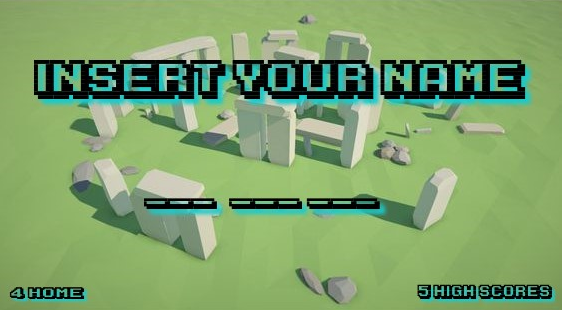
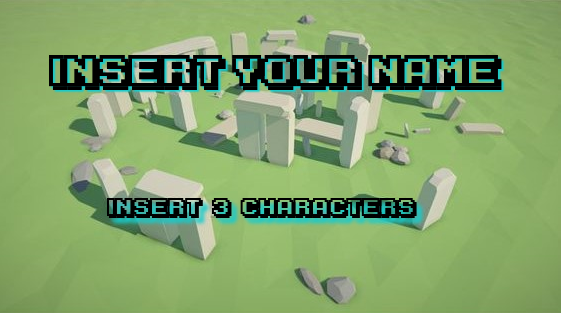
version final en estos momentos

diff --git a/src/gameRender.js b/src/gameRender.js
@@ -157,12 +157,28 @@ function renderPlayerName()
     );  
 
     updateLetterTime();
-    globals.ctx.font         = '10px emulogic';
-    globals.ctx.fillStyle    = 'red';  
-    globals.ctx.fillText("PRESS 3 KEYS TO SAVE NAME IN HIGHSCORES", 35, 250);
-    globals.ctx.font         = '10px emulogic';
-    globals.ctx.fillStyle    = 'red';  
-    globals.ctx.fillText(globals.highscorename, 70, 270);
+    const agua = globals.agua;
+    const frutas = globals.frutas;
+    const score = globals.score;
+    globals.ctx.font         = '50px emulogic';
+    globals.ctx.fillStyle    = 'blue';  
+    globals.ctx.fillText(globals.highscorename, 180, 170);
+
+    globals.ctx.font = '18px emulogic';
+    globals.ctx.fillText("WATER", 375, 260);
+    globals.ctx.fillStyle =  'black';
+    globals.ctx.fillText(agua, 385, 290);
+
+    globals.ctx.fillStyle =  'green';
+    globals.ctx.fillText("FRUIT", 215, 260);
+    globals.ctx.fillStyle =  'black';
+    globals.ctx.fillText(frutas, 230, 290);
+
+    globals.ctx.font = '18px emulogic';
+    globals.ctx.fillStyle = 'red';
+    globals.ctx.fillText("SCORE", 50, 260);
+    globals.ctx.fillStyle =  'black';
+    globals.ctx.fillText(score, 70, 290);
 }
 
 function renderHUD()
@@ -236,33 +252,13 @@ function drawGame()
 
     drawStats();
     
-    if (globals.score > 1000)
+    if (globals.score > 1500)
     {
         drawLevel2();
-        const agua = globals.agua;
-        globals.ctx.font         = '40px emulogic';
-        globals.ctx.fillStyle    = 'brown';
-        globals.ctx.fillText("LEVEL 2", 95, 50);
-        globals.ctx.font         = '15px emulogic';
-        globals.ctx.fillStyle    = 'brown';
-        globals.ctx.fillText("TIME:" + globals.levelTime.value, 410, 25);
-        globals.ctx.drawImage(globals.tileSets[12], 8, 0);
-        globals.ctx.fillStyle =  'lightbrown';
-        globals.ctx.fillText(":" + agua, 30, 33);
     }
-    if(globals.score > 3000)
+    if(globals.score > 4000)
     {
         drawLevel3();
-        const agua = globals.agua;
-        globals.ctx.font         = '40px emulogic';
-        globals.ctx.fillStyle    = 'pink';
-        globals.ctx.fillText("LEVEL 3", 95, 50);
-        globals.ctx.font         = '15px emulogic';
-        globals.ctx.fillStyle    = 'pink';
-        globals.ctx.fillText("TIME:" + globals.levelTime.value, 410, 25);
-        globals.ctx.drawImage(globals.tileSets[12], 8, 0);
-        globals.ctx.fillStyle =  'lightpink';
-        globals.ctx.fillText(":" + agua, 30, 33);
     }
     
 }
@@ -283,10 +279,9 @@ function drawStats()
 
 function drawLevel2()
 {
-  //Borramos la pntalla entera
-  globals.ctx.clearRect(0, 0, globals.canvas.width, globals.canvas.height);
-  globals.ctxHUD.clearRect(0, 0, globals.canvasHUD.width, globals.canvasHUD.height);
-  
+    //Borramos la pntalla entera
+    globals.ctx.clearRect(0, 0, globals.canvas.width, globals.canvas.height);
+    globals.ctxHUD.clearRect(0, 0, globals.canvasHUD.width, globals.canvasHUD.height);
 
     //Movemos la camara
     moveCamera();
@@ -307,6 +302,17 @@ function drawLevel2()
     renderHUD();
 
     renderParticles();
+
+    const agua = globals.agua;
+    globals.ctx.font         = '40px emulogic';
+    globals.ctx.fillStyle    = 'brown';
+    globals.ctx.fillText("LEVEL 2", 95, 50);
+    globals.ctx.font         = '15px emulogic';
+    globals.ctx.fillStyle    = 'brown';
+    globals.ctx.fillText("TIME:" + globals.levelTime.value, 410, 25);
+    globals.ctx.drawImage(globals.tileSets[12], 8, 0);
+    globals.ctx.fillStyle =  'lightbrown';
+    globals.ctx.fillText(":" + agua, 30, 33);
 }
 
 function drawLevel3()
@@ -335,6 +341,17 @@ function drawLevel3()
     renderHUD();
 
     renderParticles();
+
+    const agua = globals.agua;
+    globals.ctx.font         = '40px emulogic';
+    globals.ctx.fillStyle    = 'pink';
+    globals.ctx.fillText("LEVEL 3", 95, 50);
+    globals.ctx.font         = '15px emulogic';
+    globals.ctx.fillStyle    = 'pink';
+    globals.ctx.fillText("TIME:" + globals.levelTime.value, 410, 25);
+    globals.ctx.drawImage(globals.tileSets[12], 8, 0);
+    globals.ctx.fillStyle =  'lightpink';
+    globals.ctx.fillText(":" + agua, 30, 33);
 }
 
 function renderSprite(sprite)
@@ -517,7 +534,7 @@ function renderExplosionParticle(particle)
         globals.ctx.fillStyle = 'red';
         globals.ctx.globalAlpha = particle.alpha; //Set alpha
         globals.ctx.beginPath();
-        globals.ctx.arc(particle.xPos, particle.yPos, particle.radius, 0,5 * Math.PI );
+        globals.ctx.arc(particle.xPos, particle.yPos, particle.radius, 0.5 * Math.PI );
         globals.ctx.fill();
         globals.ctx.globalAlpha = 1.0;  //Restore alpha
     }
@@ -551,10 +568,18 @@ function renderScores()
 
 function renderScoreTable(score)
  {
-    moveCameraScore();
-    globals.ctx.font = '30px emulogic';
-    globals.ctx.fillStyle = 'white';
-    globals.ctx.fillText(score.name, score.xPos + 70, score.yPos + 100);
-    globals.ctx.fillText(score.score, score.xPos + 220, score.yPos + 100); 
-    restoreCamera();
+    
+    for( let i = 0; i < globals.scores.length; ++i)
+    {
+        moveCameraScore();
+        globals.ctx.font = '30px emulogic';
+        globals.ctx.fillStyle = 'white';
+        globals.ctx.fillText((i + 1),score.xPos + 30, score.yPos + 100); 
+        globals.ctx.font = '30px emulogic';
+        globals.ctx.fillStyle = 'white';
+        globals.ctx.fillText(score.name, score.xPos + 70, score.yPos + 100);
+        globals.ctx.fillText(score.score, score.xPos + 220, score.yPos + 100); 
+        restoreCamera();
+    }
+    
  }

diff --git a/src/gameLogic.js b/src/gameLogic.js
@@ -61,11 +61,12 @@ function updateLoading()
 
 function updateNewGame()
 {   
-    // updateDied();
-    
     if( globals.action.move1)
-        globals.gameState = Game.PLAYING;
-
+    {
+        updateStart();
+        globals.gameState = Game.PLAYING
+    }
+      
     if ( globals.action.move3)
         globals.gameState = Game.HIGH_SCORES;
 
@@ -82,14 +83,6 @@ function updateLevel2()
 function updateGameOver()
 {  
     //updateGameOverMusic();
-    // if( globals.action.move4)
-    //     globals.gameState = Game.HOME;
-
-    // if( globals.action.move5)
-    //     {
-    //     globals.gameState = Game.HIGH_SCORES;
-    //     }
-
     if( globals.action.moveSpace)
         globals.gameState = Game.PLAYERNAME; 
 }
@@ -147,11 +140,11 @@ function playGame()
     playSound();
     updateDied();
 
-    if (globals.score > 1000)
+    if (globals.score > 1500)
     {
         playLevel2();
     }
-    if (globals.score > 3000)
+    if (globals.score > 4000)
     {
         playLevel2();
     }
@@ -915,15 +908,31 @@ function updateDied()
         globals.name = "";
         globals.highscore = globals.scores[0];
         globals.score = globals.score;
-        globals.life = 30;
-        globals.agua = 0;
-        globals.frutas = 0;
+        globals.life = globals.life;
+        globals.agua = globals.agua;
+        globals.frutas = globals.frutas;
         globals.levelTime.value = 0;
         globals.sprites.splice(0)
         globals.gameState = Game.GAME_OVER;
-        initSprites();
     } 
 }
+
+function updateStart()
+{    
+    //updateGameOverMusic();
+    globals.name = "";
+    globals.highscore = globals.scores[0];
+    globals.score = 0;
+    globals.life = 30;
+    globals.agua = 0;
+    globals.frutas = 0;
+    globals.levelTime.value = 0;
+    globals.sprites.splice(0)
+    globals.gameState = Game.PLAYING;
+    initSprites();
+} 
+
+
 
 function updateGameMusic()
 {

diff --git a/src/initialize.js b/src/initialize.js
@@ -43,7 +43,7 @@ function initVars()
     globals.frameTimeObj = 1 / FPS; //Frame time in secondsg
 
     //Iniciar el estado juego
-    globals.gameState = Game.PLAYERNAME;
+    globals.gameState = Game.LOADING;
 
     //Inicializamos los estados de las acciones
     globals.action = {
@@ -235,7 +235,7 @@ function loadHandler()
         console.log("Assets finished loading");
 
         //Start the game
-        globals.gameState = Game.PLAYERNAME;
+        globals.gameState = Game.LOADING;
     }
 }
 
